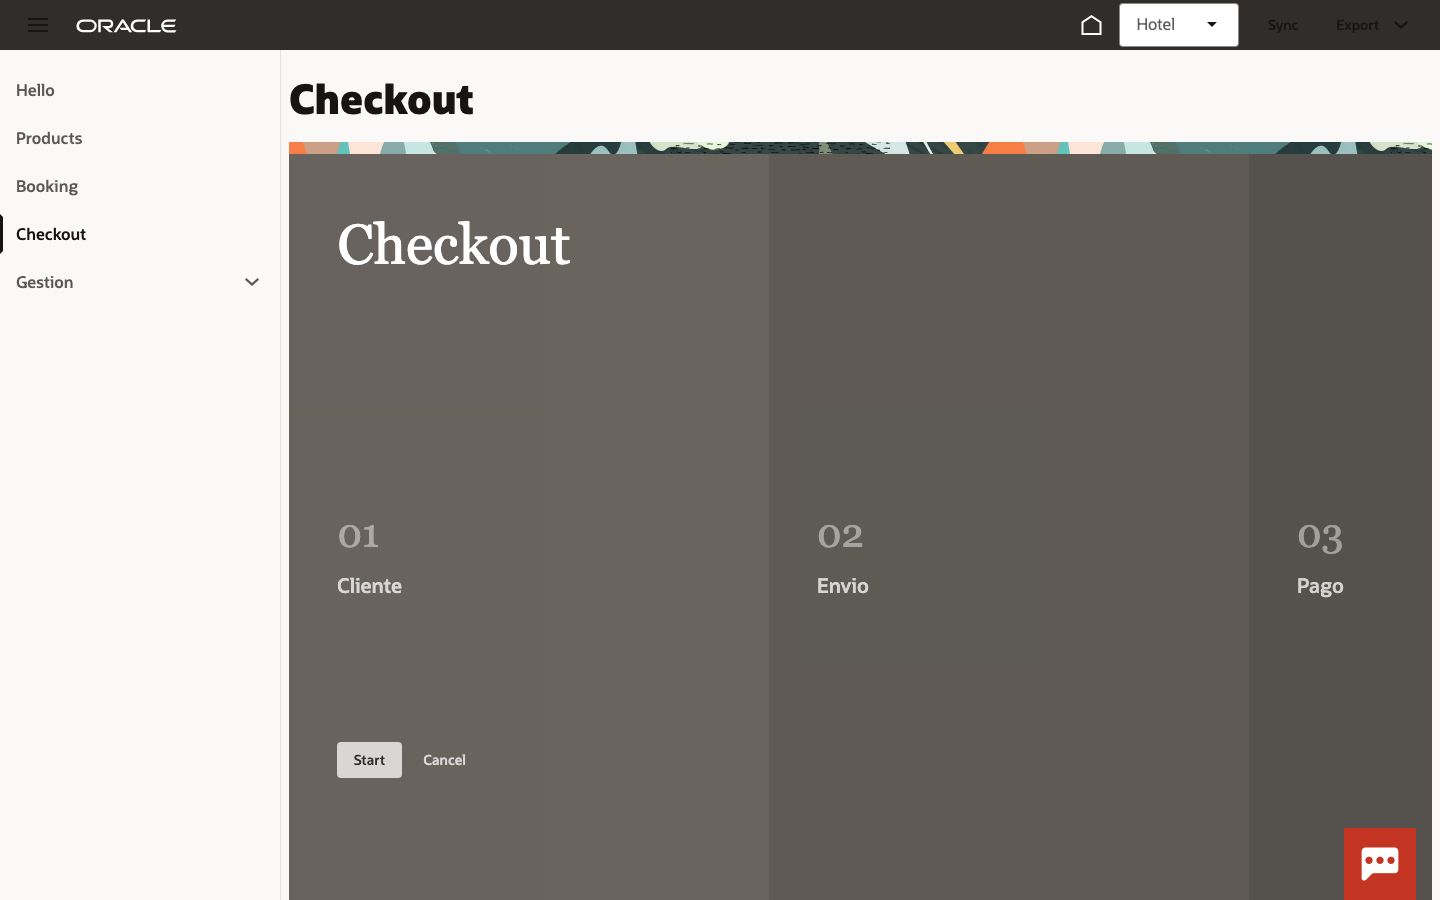
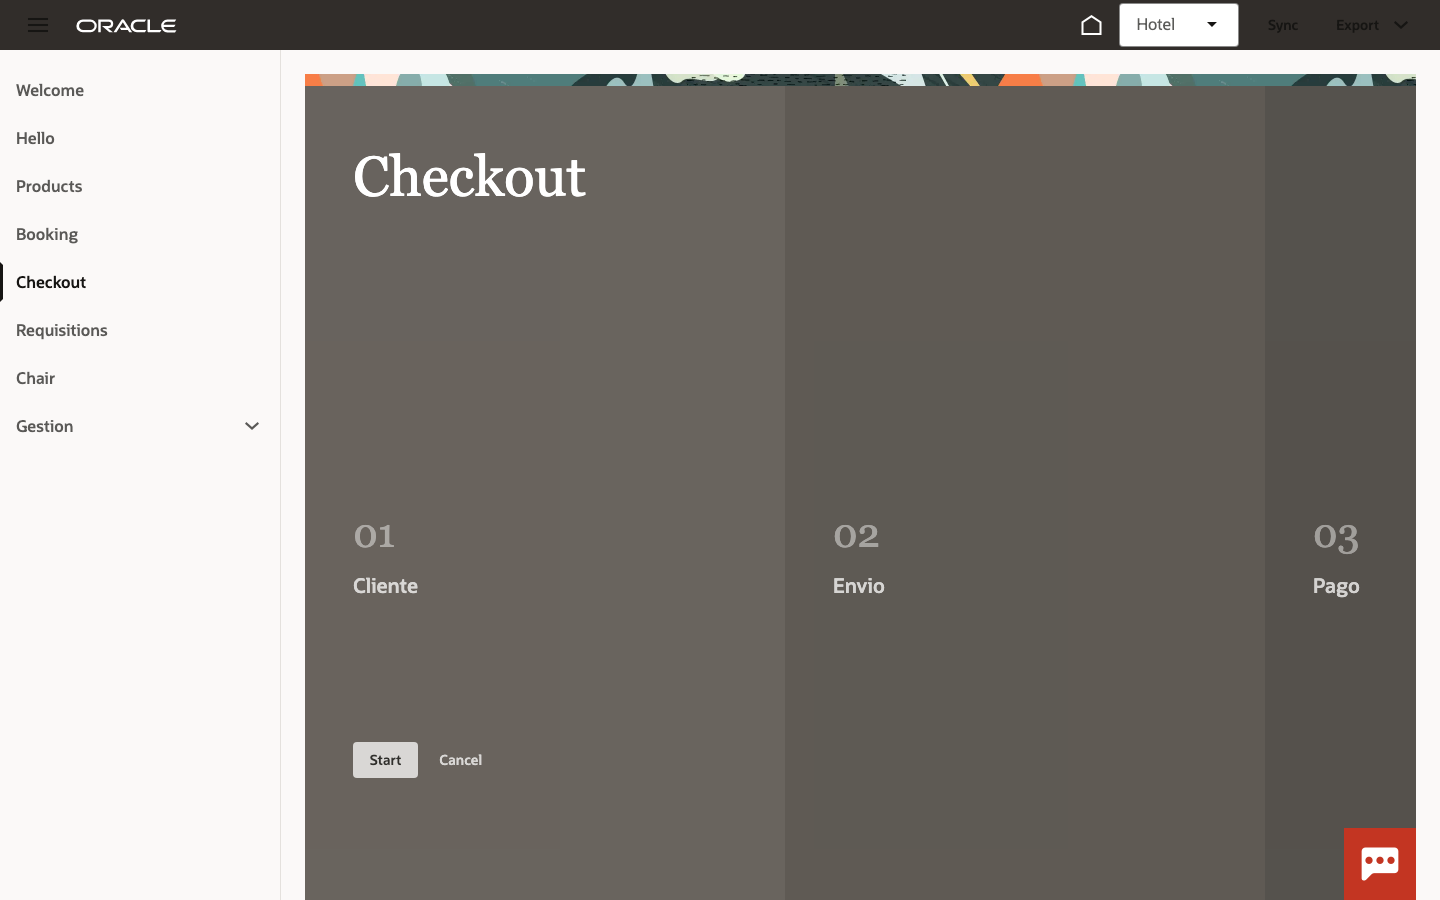
fix(vb): suprimir el h1 de pagina en modo wizard — el guided-process ya lleva su titulo
Feedback del usuario: el header de pagina era redundante en /checkout (el overview y
la cabecera del guided-process ya muestran el titulo). El h1 se oculta cuando hay
wizard activo; el resto de paginas lo conservan (verificado Person). Los botones del
wire del wizard ya viven dentro del proceso (Continue/Confirm/rail).

diff --git a/.dev/vb/mateu-vb/webApps/vbredwoodapp/flows/main/pages/main-start-page.html b/.dev/vb/mateu-vb/webApps/vbredwoodapp/flows/main/pages/main-start-page.html
@@ -8,9 +8,13 @@
   :style.max-width="[[ $application.variables.mateuPageMaxWidth ]]"
   :style.margin="[[ $application.variables.mateuPageMargin ]]"
   :style.padding="[[ $application.variables.mateuPagePadding ]]">
+<!-- el h1 de página SOBRA en un wizard: el guided-process ya lleva el título
+     (overview + cabecera propia) -->
+<oj-bind-if test="[[ !$application.variables.mateuWizard ]]">
 <div class="oj-flex">
   <h1 class="oj-flex-item oj-sm-12 oj-md-12"><oj-bind-text value="[[ $application.variables.mateuHostTitle ]]"></oj-bind-text></h1>
 </div>
+</oj-bind-if>
 
 <oj-bind-if test="[[ !$application.variables.mateuFormMetadata ]]">
   <div class="oj-flex">

diff --git a/.dev/vb/DESIGN-NOTES.md b/.dev/vb/DESIGN-NOTES.md
@@ -372,6 +372,9 @@ el kit + apuntar a un Mateu → pantalla con look Redwood nativo, cero código p
   necesita **`display:'on'`** o sale con oj-disabled (apagado, sin marca de selección); el
   status de Mateu NO se emite (el indicador espera otro enum). current-step efectivo en var
   aparte (`mateuWizardShownStep`: '' al entrar = overview; el paso real tras cada acción).
+  El **h1 de página se SUPRIME en modo wizard** (el guided-process ya lleva el título en su
+  overview y su cabecera; feedback del usuario) — cualquier acción extra de toolbar de un
+  wizard iría al slot del paso, no a un header duplicado.
   **Atrás = clic en el RAIL** (feedback: un Back en el contenido contradice al Cancel del
   footer): `spBeforeStepNavigate` (detail {currentStep,nextStep,triggeredFrom:'continue'|'step'})
   con triggeredFrom 'step' ejecuta los 'back' necesarios contra Mateu (fromIdx−toIdx veces);
